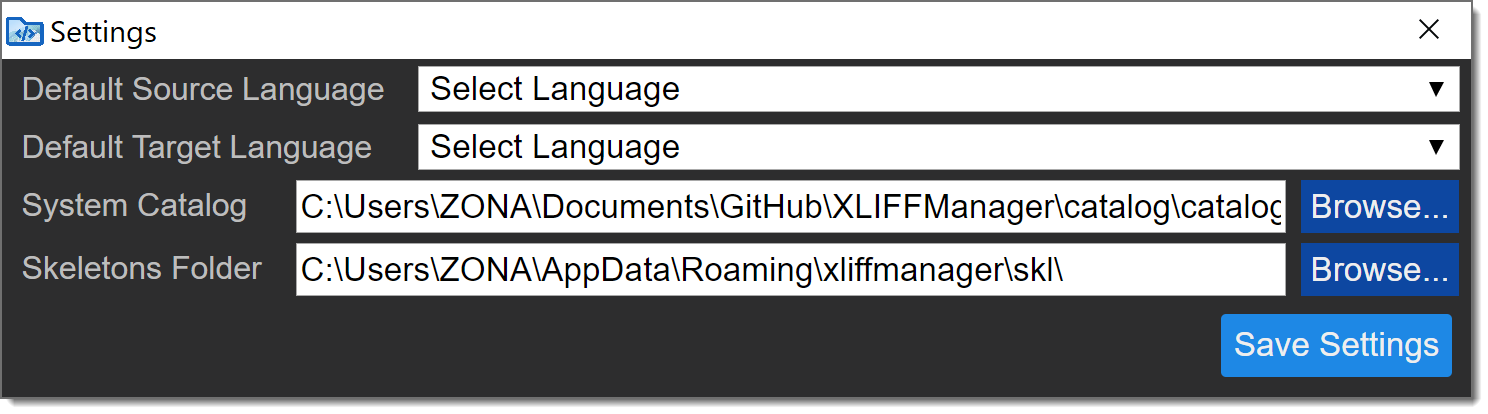
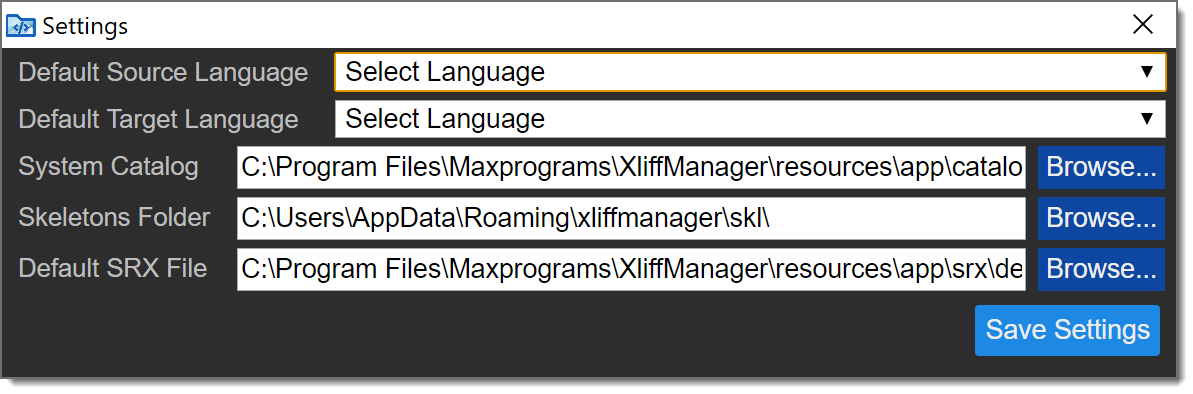
Allowed selection of SRX file

diff --git a/settings.js b/settings.js
@@ -8,17 +8,18 @@
  *
  * Contributors:
  *     Maxprograms - initial API and implementation
- *******************************************************************************/ 
-const {ipcRenderer} = require('electron');
+ *******************************************************************************/
+const { ipcRenderer } = require('electron');
 
 ipcRenderer.send('get-languages');
 ipcRenderer.send('get-catalog');
-ipcRenderer.send('get-skeleton')
+ipcRenderer.send('get-skeleton');
+ipcRenderer.send('get-srx');
 
-ipcRenderer.on('languages-received', (event,arg) => {
+ipcRenderer.on('languages-received', (event, arg) => {
     var array = arg.languages;
     var options = '<option value="none">Select Language</option>';
-    for (let i=0 ; i<array.length ; i++) {
+    for (let i = 0; i < array.length; i++) {
         var lang = array[i];
         options = options + '<option value="' + lang.code + '">' + lang.description + '</option>';
     }
@@ -26,22 +27,27 @@ ipcRenderer.on('languages-received', (event,arg) => {
     document.getElementById('sourceSelect').value = arg.srcLang;
     document.getElementById('targetSelect').innerHTML = options;
     document.getElementById('targetSelect').value = arg.tgtLang;
- });
+});
 
-ipcRenderer.on('skeleton-received', (event,arg) => {
-     document.getElementById('skeletonFolder').value = arg.sklFolder;
-}); 
+ipcRenderer.on('skeleton-received', (event, arg) => {
+    document.getElementById('skeletonFolder').value = arg.sklFolder;
+});
 
-ipcRenderer.on('catalog-received', (event,arg) => {
+ipcRenderer.on('catalog-received', (event, arg) => {
     document.getElementById('defaultCatalog').value = arg.catalog;
-}); 
+});
+
+ipcRenderer.on('srx-received', (event, arg) => {
+    document.getElementById('defaultSRX').value = arg.srx;
+});
 
 document.getElementById('save').addEventListener('click', () => {
     ipcRenderer.send('save-defaults', {
         srcLang: document.getElementById('sourceSelect').value,
         tgtLang: document.getElementById('targetSelect').value,
-        skeleton: document.getElementById('skeletonFolder').value, 
-        catalog: document.getElementById('defaultCatalog').value
+        skeleton: document.getElementById('skeletonFolder').value,
+        catalog: document.getElementById('defaultCatalog').value,
+        srx: document.getElementById('defaultSRX').value
     });
 });
 
@@ -49,7 +55,10 @@ document.getElementById('browseSkeleton').addEventListener('click', () => {
     ipcRenderer.send('select-skeleton');
 });
 
-
 document.getElementById('browseCatalog').addEventListener('click', () => {
     ipcRenderer.send('select-catalog');
+});
+
+document.getElementById('browseSRX').addEventListener('click', () => {
+    ipcRenderer.send('select-srx');
 });

diff --git a/settings.html b/settings.html
@@ -28,6 +28,11 @@
                 <td class="panel fill"><input id="skeletonFolder" type="text" class="fill"></td>
                 <td class="panel"><button id="browseSkeleton" class="dark">Browse...</button></td>
             </tr>
+            <tr>
+                <td class="panel"><label for="defaultSRX">Default SRX File</label></td>
+                <td class="panel fill"><input id="defaultSRX" type="text" class="fill"></td>
+                <td class="panel"><button id="browseSRX" class="dark">Browse...</button></td>
+            </tr>
         </table>
         <div class="panel">
             <button id="save" class="primary right">Save Settings</button>
